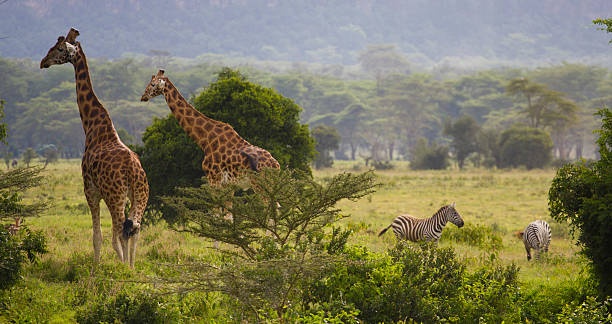
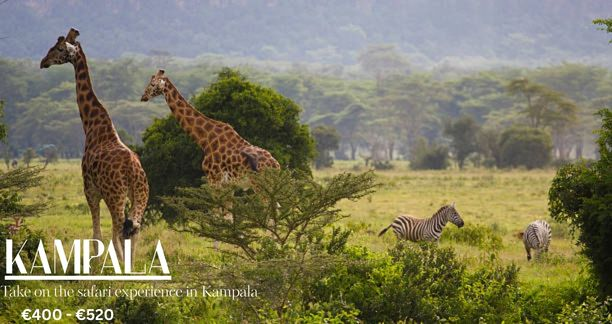
created bottom section

diff --git a/project/templates/userHome.html b/project/templates/userHome.html
@@ -44,32 +44,55 @@
         </div>
         <div id = "content">
             <div id="carousel">
+    <h1>Popular Destinations</h1>
 
-                <h1>Popular Destinations</h1>
+    <div id="carousel-track">
+        <img src="{{ url_for('static', filename='Images/Madrid.jpg') }}" class="slide">
+        <img src="{{ url_for('static', filename='Images/Nairobi.jpg') }}" class="slide">
+        <img src="{{ url_for('static', filename='Images/New York.jpg') }}" class="slide">
+        <img src="{{ url_for('static', filename='Images/Kampala.jpg') }}" class="slide">
+    </div>
 
-                <div id="carousel-images">
-                    <img src="{{ url_for('static', filename='Images/Madridd.jpg') }}"class="active">
-                    <img src="{{ url_for('static', filename='Images/Nairobi.jpg') }}">
-                    <img src="{{ url_for('static', filename='Images/New York.jpg') }}">
-                </div>
 
+</div>
+    <div id="carousel-controls">
+        <button id="prev">&#10094;</button>
 
-            </div>
-                <div id="carousel-controls">
-                    <button id="prev">&#10094;</button>
-
-                    <div id="dots">
-                        <span class="dot active-dot"></span>
-                        <span class="dot"></span>
-                        <span class="dot"></span>
-                    </div>
-
-                    <button id="next">&#10095;</button>
-                </div>
-            </div>
-
+        <div id="dots">
+            <span class="dot active-dot"></span>
+            <span class="dot"></span>
+            <span class="dot"></span>
         </div>
+
+        <button id="next">&#10095;</button>
+    </div>
+</div>
+
+</div>
+<div id = "bottom">
+    <div id = "About us" class = "footer">
+        <h2>About Us</h2> 
+        <p> We are dedicated to making travel simple, affordable, and inspiring. Our platform helps you explore destinations, compare flights, and plan your next adventure</p>
+    </div>
+    <div id = "Goal" class = "footer">
+        <p> Our mission is to connect people with the world by providing a seamless and enjoyable travel booking experience. We aim to make every journey smoother, from takeoff to landing. </p>
+    </div>
+    <div id = "contact"class="footer"> 
+        <h2>Contact</h2> 
+        <p>Email: support@travel.com</p> 
+        <p>Phone: +353 123 4567</p> 
+    </div>
+    <div id = "rights">
+        © 2026 TQHP Bookings. All rights reserved.
+    </div>
     
+
+</div>
+    
+
+
+
+
 <script>
 const cities = [
     "New York", "London", "Paris", "Tokyo",
@@ -98,34 +121,42 @@ document.getElementById("to").addEventListener("focus", function() {
     this.awesomplete.evaluate();
 });
 
-//for the images
-document.addEventListener("DOMContentLoaded", function() {
-    const images = document.querySelectorAll("#carousel-images img");
-    let current = 0;
+//for images
+const track = document.getElementById("carousel-track");
+const slides = document.querySelectorAll(".slide");
+const dots = document.querySelectorAll(".dot");
 
-    const showImage = (index) => {
-        images.forEach(img => img.classList.remove("active"));
-        images[index].classList.add("active");
+let index = 0;
+
+function updateCarousel() {
+    track.style.transform = `translateX(-${index * 60}%)`;
+
+    document.querySelector(".active")?.classList.remove("active");
+    slides[index].classList.add("active");
+
+    document.querySelector(".active-dot")?.classList.remove("active-dot");
+    dots[index].classList.add("active-dot");
+}
+
+document.getElementById("next").onclick = () => {
+    index = (index + 1) % slides.length;
+    updateCarousel();
+};
+
+document.getElementById("prev").onclick = () => {
+    index = (index - 1 + slides.length) % slides.length;
+    updateCarousel();
+};
+
+dots.forEach((dot, i) => {
+    dot.onclick = () => {
+        index = i;
+        updateCarousel();
     };
-
-    document.getElementById("next").addEventListener("click", () => {
-        current = (current + 1) % images.length;
-        showImage(current);
-    });
-
-    document.getElementById("prev").addEventListener("click", () => {
-        current = (current - 1 + images.length) % images.length;
-        showImage(current);
-    });
-
-    //Optional auto-slide every 8 seconds
-    setInterval(() => {
-        current = (current + 1) % images.length;
-        showImage(current);
-    }, 8000);
-
-    showImage(current);  //show first image
 });
+
+updateCarousel();
+
 </script>
 </body>
 </html>

diff --git a/project/static/userHome.css b/project/static/userHome.css
@@ -17,8 +17,8 @@ html, body {
 .header-content {
     display: flex;                
     align-items: center;          
-    justify-content: flex-start;   /* keep h1 on the left */
-    gap: 20px;                     /* space between h1 and logo */
+    justify-content: flex-start;  
+    gap: 20px;                    
     margin: 60px auto 0 auto;
 }
 
@@ -34,8 +34,8 @@ html, body {
 }
 
 .plain-buttons {
-    margin-top: 20px;              /* separate from header */
-    text-align: right;             /* buttons aligned to right */
+    margin-top: 20px;              
+    text-align: right;             
     margin: -160px auto 0 auto;
 }
 
@@ -72,10 +72,10 @@ html, body {
 }
 
 #searchbar form {
-    display: flex;              /* makes the form children horizontal */
-    gap: 15px;                  /* space between inputs and button */
-    flex-wrap: wrap;            /* wrap on small screens */
-    justify-content: center;    /* center horizontally */
+    display: flex;              
+    gap: 15px;                  
+    flex-wrap: wrap;           
+    justify-content: center;    
     align-items: center;
 }
 
@@ -105,44 +105,59 @@ html, body {
 #main {
     background: linear-gradient(180deg, #0A1A2F, #004AAD);
     display: flex;
-    flex-direction: column;   /* stack search bar and carousel vertically */
-    align-items: center;      /* center horizontally */
-    padding: 40px 0;          /* spacing from top */
+    flex-direction: column;   
+    align-items: center;      
+    padding: 40px 0;          
 }
 
 
 #carousel {
-    position: relative;
     width: 80%;
-    max-width: 800px;
-    margin: 50px auto;
+    max-width: 900px;
+    margin: 40px auto;
+    text-align: center;
+    color: white;
+}
+
+/*Window that hides overflow */
+#carousel-window {
+    width: 100%;
     overflow: hidden;
+}
+
+/*Track that slides left/right */
+#carousel-track {
+    display: flex;
+    gap: 20px;
+    transition: transform 0.5s ease;
+}
+
+/*Each slide*/
+.slide {
+    width: 60%;
+    flex-shrink: 0;
     border-radius: 15px;
-    height:400px;
-    color:white;
+    opacity: 0.6;
+    transform: scale(0.9);
+    transition: 0.3s ease;
 }
 
-#carousel-images img {
-    width: 70%;
-    display: none;
-    border-radius: 15px;
-    padding-left:80px;
+.slide.active {
+    opacity: 1;
+    transform: scale(1);
 }
 
-#carousel-images img.active {
-    display: block;
-}
-
+/*controls*/
 #carousel-controls {
     display: flex;
     justify-content: center;
     align-items: center;
-    gap: 20px;
+    gap: 25px;
     margin-top: 15px;
 }
 
 #carousel-controls button {
-    background: rgba(0, 0, 0, 0.4);
+    background: rgba(255,255,255,0.2);
     color: white;
     border: none;
     font-size: 24px;
@@ -153,11 +168,11 @@ html, body {
 }
 
 #carousel-controls button:hover {
-    background: rgba(0, 0, 0, 0.6);
-    transform: scale(1.1);
+    background: rgba(255,255,255,0.35);
+    transform: scale(1.15);
 }
 
-/* Dots */
+/*Dots*/
 #dots {
     display: flex;
     gap: 10px;
@@ -166,7 +181,7 @@ html, body {
 .dot {
     width: 12px;
     height: 12px;
-    background: rgba(255,255,255,0.5);
+    background: rgba(255,255,255,0.4);
     border-radius: 50%;
     cursor: pointer;
     transition: 0.2s ease;
@@ -179,3 +194,45 @@ html, body {
 .active-dot {
     background: white;
 }
+
+/*bottom section*/
+#bottom {
+    background: rgba(0, 74, 173, 0.25);
+    backdrop-filter: blur(6px);
+    padding: 40px 20px 20px;
+    border-radius: 15px 15px 0 0;
+    color: white;
+    display: flex;
+    justify-content: space-around;
+    flex-wrap: wrap;
+    gap: 40px;
+    text-align: left;
+}
+
+.footer {
+    width: 250px;
+}
+
+.footer h2 {
+    font-size: 20px;
+    margin-bottom: 10px;
+    color: #dfefff;
+}
+
+.footer p {
+    font-size: 14px;
+    line-height: 1.6;
+    opacity: 0.9;
+}
+
+#rights {
+    width: 100%;
+    text-align: center;
+    margin-top: 30px;
+    border-top: 1px solid rgba(255,255,255,0.2);
+    padding-top: 15px;
+    font-size: 13px;
+    opacity: 0.8;
+}
+
+
